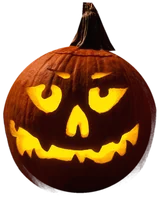
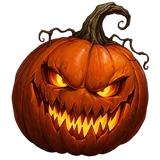
style: painted pumpkin instead of the photo one

diff --git a/app/pages/index.vue b/app/pages/index.vue
@@ -729,7 +729,7 @@ useSeoMeta({
     position: absolute;
     right: 96px;
     bottom: 0;
-    width: 34px;
+    width: 38px;
     height: auto;
     filter: drop-shadow(0 0 6px rgba(255, 138, 42, .45));
   }
